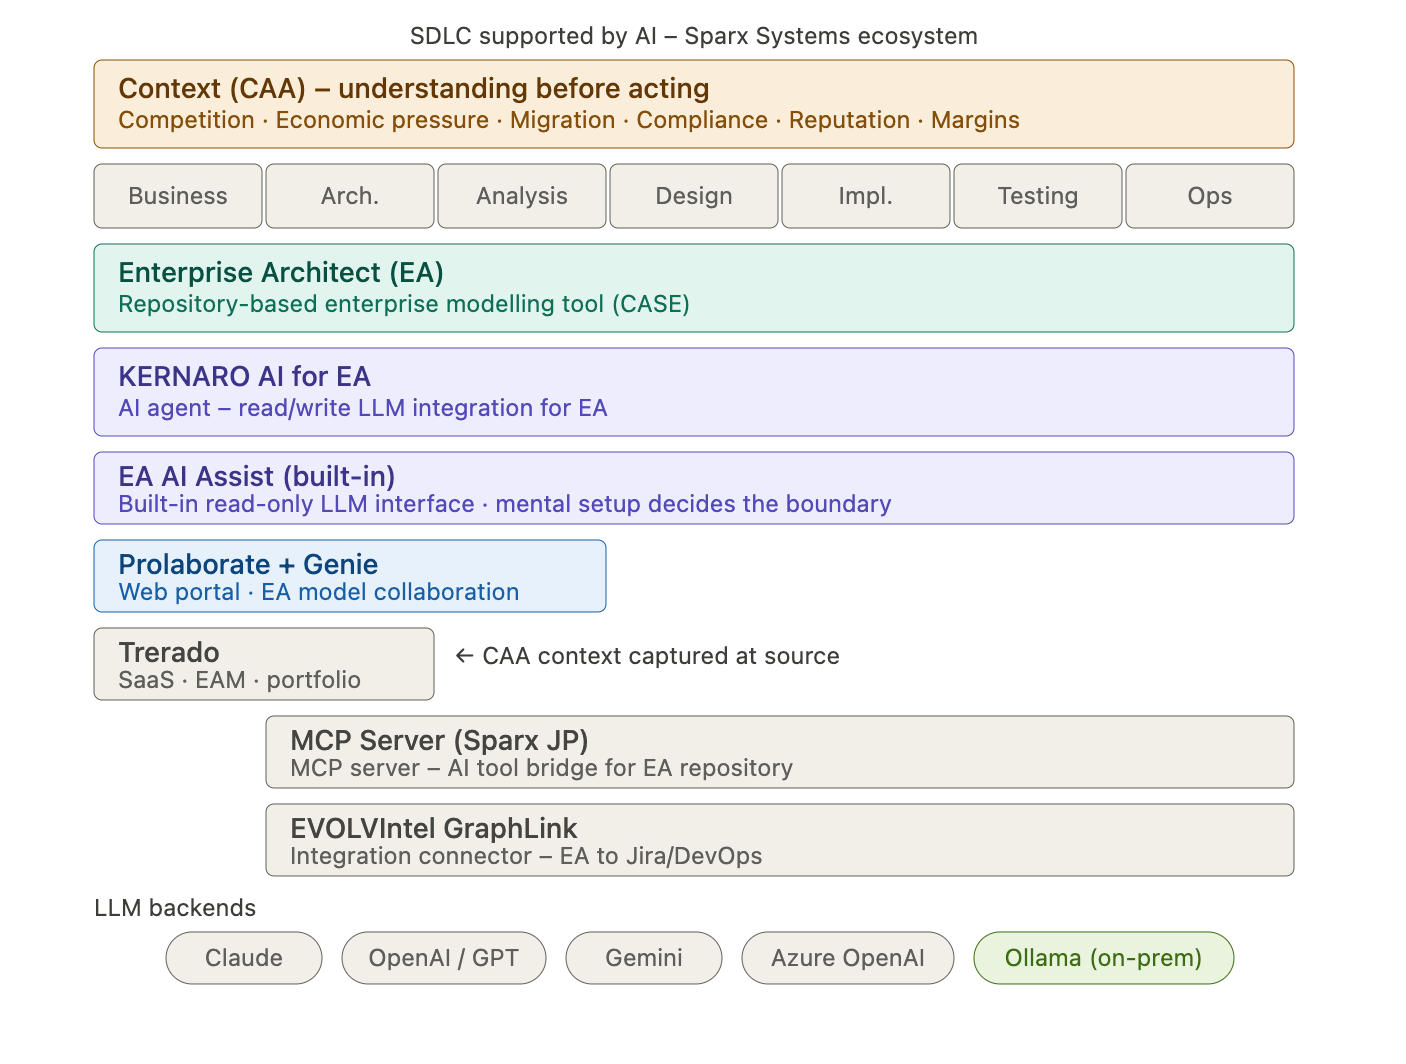
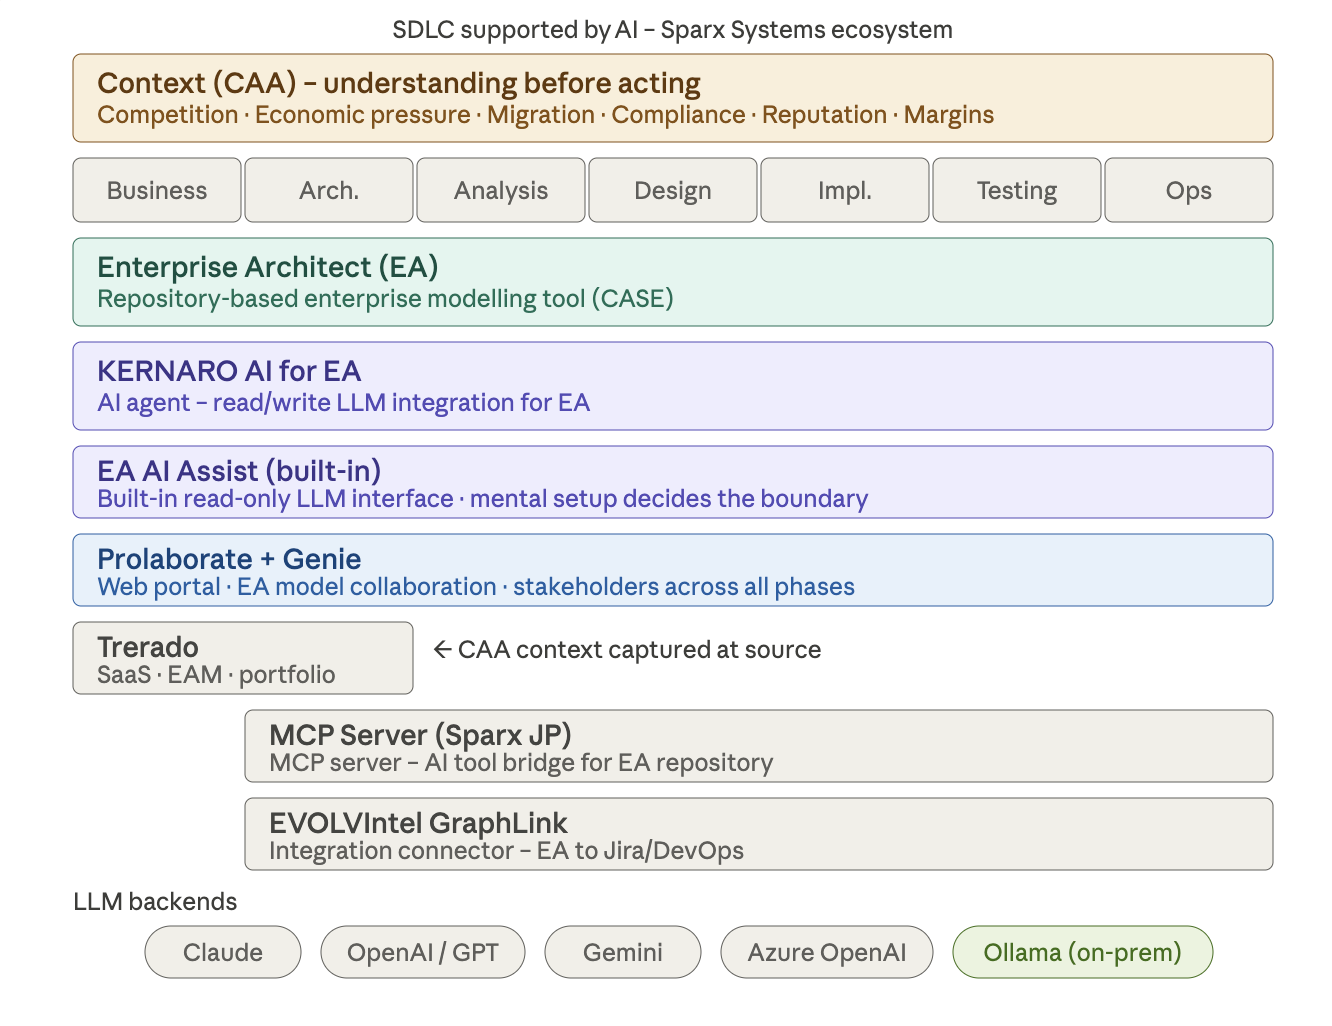
20260518-0917;changed svg digaram SPARX-Types in SDLC in K103, K104-PROLABORATE

Changed region(s): [[0.0308, 0.0, 0.9542, 0.8421], [0.0616, 0.8421, 0.9234, 0.9669], [0.8926, 0.655, 0.9234, 0.7173]]

diff --git a/content/docs/sk/knifes/knifes_overview/KNIFE_Overview_Details.md b/content/docs/sk/knifes/knifes_overview/KNIFE_Overview_Details.md
@@ -15,7 +15,7 @@ fm_version_comment: ""
 id: "KNIFE_OVERVIEW_DETAILS"
 
 # Unikátne UUID – generuje skript
-guid: "e9d8335c-803e-44c7-a6da-909f197dbd86"
+guid: "cf220fa1-2cb4-4c0f-8010-f537057b8d94"
 
 
 # 🧭 CONTEXT ---------------------------------------------------------
@@ -69,7 +69,7 @@ locale: "sk"
 # 🕒 LIFECYCLE --------------------------------------------------------
 
 # Dátum vytvorenia – generuje skript
-created: "2026-05-17"
+created: "2026-05-18"
 
 # Dátum poslednej úpravy – dopĺňa človek
 modified: ""
@@ -135,7 +135,7 @@ fm_reserved2: ""
 # 📊 KNIFE Overview – Details
 
 <!-- fm-visible: start -->
-> **GUID:** `e9d8335c-803e-44c7-a6da-909f197dbd86`
+> **GUID:** `cf220fa1-2cb4-4c0f-8010-f537057b8d94`
 > **Status:** `backlog` · **Author:** Roman Kazička · **License:** CC-BY-NC-SA-4.0
 <!-- fm-visible: end -->
 

diff --git a/content/docs/sk/knifes/knifes_overview/KNIFE_Overview_Blog.md b/content/docs/sk/knifes/knifes_overview/KNIFE_Overview_Blog.md
@@ -15,7 +15,7 @@ fm_version_comment: ""
 id: "KNIFE_OVERVIEW_BLOG"
 
 # Unikátne UUID – generuje skript
-guid: "6736917e-abe8-4aa0-bd32-f66a32c6366c"
+guid: "6f129d95-290a-4675-8a2d-aede3b112272"
 
 
 # 🧭 CONTEXT ---------------------------------------------------------
@@ -69,7 +69,7 @@ locale: "sk"
 # 🕒 LIFECYCLE --------------------------------------------------------
 
 # Dátum vytvorenia – generuje skript
-created: "2026-05-17"
+created: "2026-05-18"
 
 # Dátum poslednej úpravy – dopĺňa človek
 modified: ""
@@ -135,7 +135,7 @@ fm_reserved2: ""
 # 📰 KNIFE Overview – Blog
 
 <!-- fm-visible: start -->
-> **GUID:** `6736917e-abe8-4aa0-bd32-f66a32c6366c`
+> **GUID:** `6f129d95-290a-4675-8a2d-aede3b112272`
 > **Status:** `backlog` · **Author:** Roman Kazička · **License:** CC-BY-NC-SA-4.0
 <!-- fm-visible: end -->
 

diff --git a/content/docs/sk/knifes/knifes_overview/KNIFE_Overview_List.md b/content/docs/sk/knifes/knifes_overview/KNIFE_Overview_List.md
@@ -15,7 +15,7 @@ fm_version_comment: ""
 id: "KNIFE_OVERVIEW_LIST"
 
 # Unikátne UUID – generuje skript
-guid: "2d8175fb-c460-4682-8326-23815e201ff4"
+guid: "11233bcd-06fd-40e9-af8e-f3e78e8b4613"
 
 
 # 🧭 CONTEXT ---------------------------------------------------------
@@ -69,7 +69,7 @@ locale: "sk"
 # 🕒 LIFECYCLE --------------------------------------------------------
 
 # Dátum vytvorenia – generuje skript
-created: "2026-05-17"
+created: "2026-05-18"
 
 # Dátum poslednej úpravy – dopĺňa človek
 modified: ""
@@ -135,7 +135,7 @@ fm_reserved2: ""
 # 🗂 KNIFE Overview – List
 
 <!-- fm-visible: start -->
-> **GUID:** `2d8175fb-c460-4682-8326-23815e201ff4`
+> **GUID:** `11233bcd-06fd-40e9-af8e-f3e78e8b4613`
 > **Status:** `backlog` · **Author:** Roman Kazička · **License:** CC-BY-NC-SA-4.0
 <!-- fm-visible: end -->
 

diff --git a/content/docs/en/knifes/K000104-SPARX_AI_KERNARO_IN_SDLC/01-Intoduction/AI_ThreadOrOpportunity/AI_ThreadOrOpportunity.md b/content/docs/en/knifes/K000104-SPARX_AI_KERNARO_IN_SDLC/01-Intoduction/AI_ThreadOrOpportunity/AI_ThreadOrOpportunity.md
@@ -164,7 +164,7 @@ V sérii troch príspevkov ukážem: → čo KERNARO vie (a čo nie) → prečo 
 <a id="img-01"></a>
 [IMG-01]
 <div style={{backgroundColor: '#ffffff', padding: '16px', borderRadius: '8px', display: 'inline-block', width: '100%', boxSizing: 'border-box'}}>
-  <img src={require('./CAA-Approach-In-SDLC.png').default} alt="CAA-Approach-In-SDLC-Types.png" style={{maxWidth: '800px', width: '100%'}} />
+  <img src={require('./CAA-Approach-In-SDLC-Types.png').default} alt="CAA-Approach-In-SDLC-Types.png" style={{maxWidth: '800px', width: '100%'}} />
 </div>
 
 <!-- IMAGES:END -->
